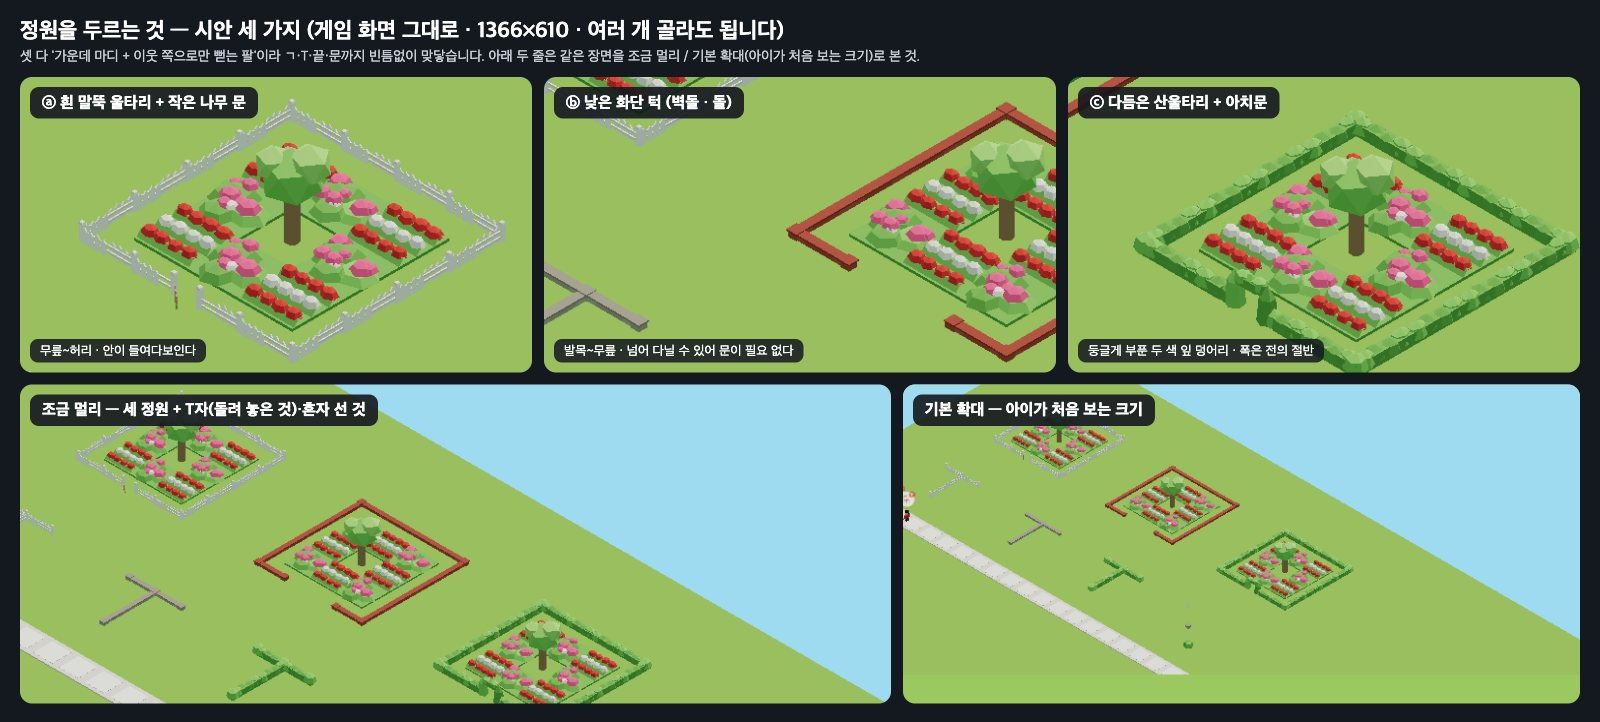
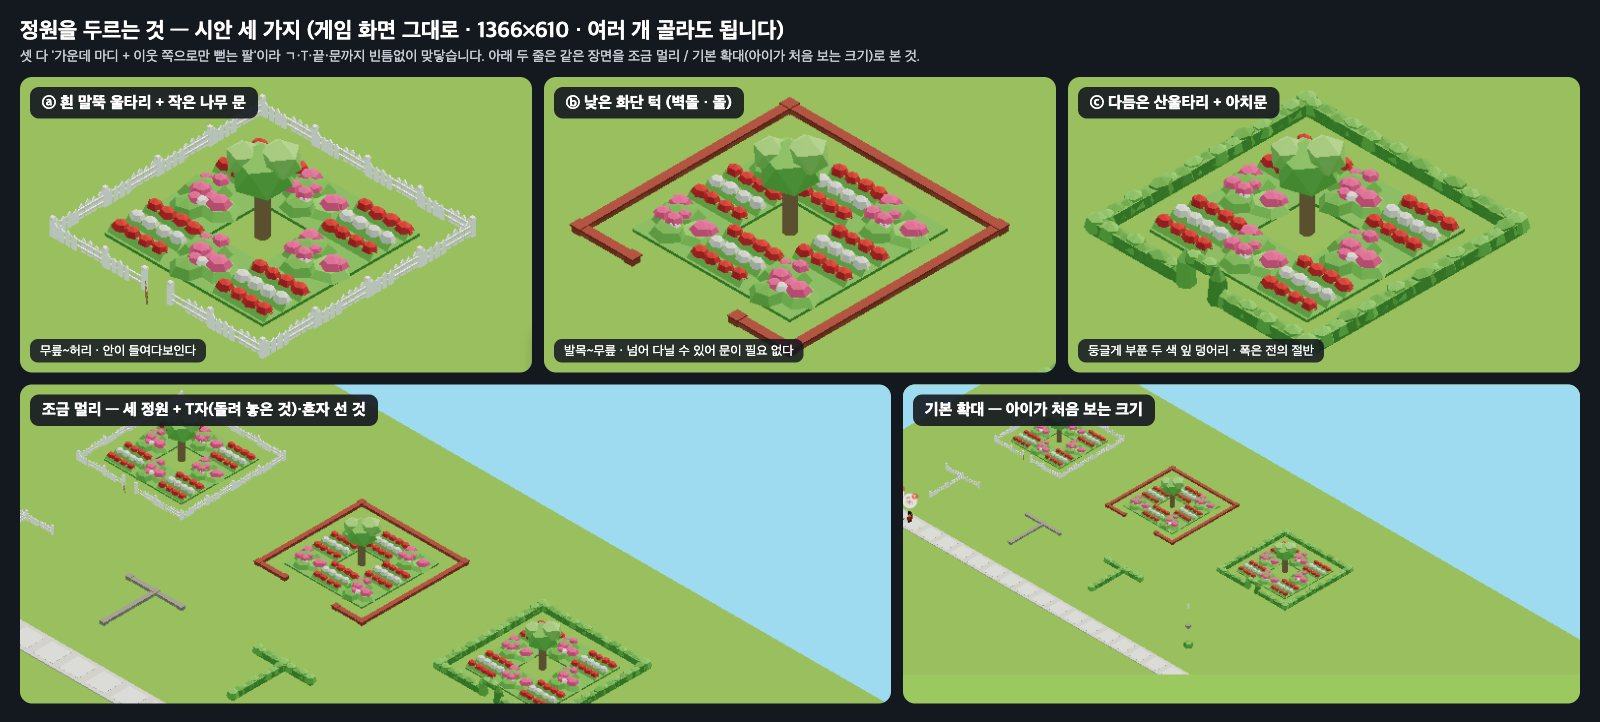
feat(village): 정원 두르기 셋 다 넣는다 — 말뚝은 더 희게, 산울타리 덩어리는 세 벌로 들쭉날쭉
선생님 09-20: "셋다넣어". 시안에 적어 둔 두 흠을 고침:
- 흰 말뚝 울타리가 그늘면에서 연회색으로 보이던 것 → 꼭짓점 색을 1 보다 크게(조명 곱 뒤 1 에서 잘림)
- 산울타리 잎 덩어리가 규칙적이던 것 → 팔 기하 세 벌(jn:hedgeArm0~2)을 칸·방향마다 바꿔 씀

diff --git a/village/index.html b/village/index.html
@@ -742,7 +742,7 @@ const JOIN_SHAPES = {
     node: [ { g:'box', c:'c2', s:[.66,.42,.66], p:[0,.21,0] }, { g:'box', c:'c3', s:[.78,.1,.78], p:[0,.47,0] } ],
     lone: [ { g:'box', c:'c2', s:[.66,.42,.66], p:[0,.21,0] }, { g:'box', c:'c3', s:[.78,.1,.78], p:[0,.47,0] } ] },
   hedge: {                                               // ⓒ 다듬은 산울타리 — 폭 0.9 · 윗면이 둥글게 부푼 잎 덩어리(짙은 잎·밝은 잎이 번갈아 겹침) · 높이 1.2(꽃보다 조금 높게)
-    arm:  [ { g:'jn:hedgeArm', c:'model', s:[1,1,1], p:[0,0,0] } ],
+    vars: 3, arm:  [ { g:'jn:hedgeArm', c:'model', s:[1,1,1], p:[0,0,0] } ],   // vars: 팔 기하가 jn:hedgeArm0~2 세 벌
     node: [ { g:'jn:hedgeNode', c:'model', s:[1,1,1], p:[0,0,0] } ], lone: [ { g:'jn:hedgeLone', c:'model', s:[1,1,1], p:[0,0,0] } ] } };
 const JOIN_GATES = {                                     // 문 — 동서로 선 모양 하나(남북이면 돌린다)
   picket: [ { g:'jn:picketGate', c:'model', s:[1,1,1], p:[0,0,0] }, { g:'box', c:P.wood, s:[1.55,.12,.07], p:[-.33,.32,.52], ry:-.7 }, { g:'box', c:P.wood, s:[1.55,.12,.07], p:[-.33,.66,.52], ry:-.7 },
@@ -761,13 +761,13 @@ function joinPartsAt(rec) {                            // 이웃(세계 기준) 
   const k = K[rec.k], x = cX(rec.root), y = cY(rec.root), fam = k.join;
   const has = (xx, yy) => { if (!inb(xx, yy)) return false; const c = cells[idx(xx, yy)]; return !!(c && K[c.k].join === fam); };
   const mask = (has(x, y - 1) ? 1 : 0) | (has(x + 1, y) ? 2 : 0) | (has(x, y + 1) ? 4 : 0) | (has(x - 1, y) ? 8 : 0), rot = rec.rot & 3;
-  const key = rec.k + ':' + mask + ':' + rot; if (_joinCache[key]) return _joinCache[key];
+  const nv = JOIN_SHAPES[fam].vars || 0, vv = nv ? (x * 7 + y * 13) % nv : 0, key = rec.k + ':' + mask + ':' + rot + ':' + vv; if (_joinCache[key]) return _joinCache[key];
   const cols = JOIN_KINDS[rec.k].cols, paint = pt => (cols && typeof pt.c === 'string' && pt.c[0] === 'c' && pt.c.length === 2) ? { ...pt, c: cols[+pt.c[1] - 1] } : pt;
   const turn = (pt, q) => { const n = ((q % 4) + 4) % 4; let px = pt.p[0], pz = pt.p[2]; for (let i = 0; i < n; i++) { const t = px; px = -pz; pz = t; } return paint({ ...pt, p:[px, pt.p[1], pz], ry: (pt.ry || 0) - n * Math.PI / 2 }); };   // 세계에서 시계 방향 90°×n (북→동→남→서)
   const S = JOIN_SHAPES[fam]; let out = [];
   if (k.gate) { const ns = (mask & 5) && !(mask & 10); out = JOIN_GATES[fam].map(pt => turn(pt, (ns ? 1 : 0) + rot)); }   // 남북 이웃만 있으면 남북으로 선다
   else if (!mask) out = S.lone.map(pt => turn(pt, rot));
-  else { const straight = mask === 5 || mask === 10; if (S.always || !straight) S.node.forEach(pt => out.push(turn(pt, rot))); [0, 1, 2, 3].forEach(d => { if (mask & (1 << d)) S.arm.forEach(pt => out.push(turn(pt, d + rot))); }); }
+  else { const straight = mask === 5 || mask === 10; if (S.always || !straight) S.node.forEach(pt => out.push(turn(pt, rot))); [0, 1, 2, 3].forEach(d => { if (mask & (1 << d)) S.arm.forEach(pt => out.push(turn(nv ? { ...pt, g: pt.g + ((vv + d) % nv) } : pt, d + rot))); }); }
   return _joinCache[key] = out; }
 /* 놓거나 치우면 이웃의 모양도 바뀐다 → 이웃 칸이 든 청크도 다시 합친다(청크가 4칸이라 경계를 자주 넘는다). 꽃밭 가장자리 등 '이웃을 보는 모양'이 같이 쓴다 */
 function joinDirtyAround(kind, x, y) { if (!K[kind] || !K[kind].join) return; [[0, -1], [1, 0], [0, 1], [-1, 0]].forEach(([dx, dy]) => { const xx = x + dx, yy = y + dy; if (inb(xx, yy) && cells[idx(xx, yy)]) dirtyChunks.add(chunkOfCell(idx(xx, yy))); }); }
@@ -1469,7 +1469,7 @@ window.__flowerBeds = () => Object.fromEntries(Object.entries(FLOWER_SETS).map((
 /* ══ [DESIGN-JOIN-1] 이어지는 것들의 기하 — 말뚝(끝이 뾰족한 살)·잎 덩어리는 상자로 안 나와서 여기서 만든다(꼭짓점 색, 팔 하나 = 기하 하나) ══ */
 (function buildJoinGeo() {
   const TAU = Math.PI * 2, lin = h => { const c = new THREE.Color(h); return [c.r, c.g, c.b]; };
-  const WHITE = lin(0xffffff), WHITE2 = lin(0xf1eee6), LEAF = lin(P.leaf);
+  const over = (h, m) => lin(h).map(v => v * m), WHITE = over(0xffffff, 1.45), WHITE2 = over(0xf6f2e8, 1.3), LEAF = lin(P.leaf);   // 흰색은 1 보다 크게 — 그늘면이 회색으로 안 떨어지게(조명 곱 뒤에 1 에서 잘린다)
   function mesh(build) {
     const pos = [], nrm = [], idx = [], col = [], kind = [];
     function shape(verts, faces, c, k) {
@@ -1499,7 +1499,10 @@ window.__flowerBeds = () => Object.fromEntries(Object.entries(FLOWER_SETS).map((
   BASE['jn:picketGate'] = mesh(g => { [-.98, .98].forEach(x => { g.box(x, .68, 0, .28, 1.36, .28, WHITE); g.dome(x, 0, 1.36, .24, .24, .22, 4, WHITE2, 0, TAU / 8); });            // 문기둥 둘(조금 높다)
     [-1, 1].forEach(sg => { g.box(sg * 1.54, .32, 0, .92, .13, .09, WHITE2); g.box(sg * 1.54, .70, 0, .92, .13, .09, WHITE2); }); });                                             // 양옆 가로대 토막 — 이웃 울타리와 이어진다
   /* ⓒ 다듬은 산울타리 — 짙은 잎(7)·보통 잎(2) 덩어리가 번갈아 겹친다 */
-  BASE['jn:hedgeArm']   = mesh(g => { g.box(0, .42, -H / 2, .78, .84, H, LEAF, 7); [[-.55, .07, .52, 1.26, 2, .78], [-1.5, -.08, .56, 1.12, 7, .70]].forEach(([z, x, r, h, k, rz], i) => g.dome(x, z, .3, r, rz, h - .3, 6, LEAF, k, i * .7)); });
+  [ [[-.55, .07, .52, 1.26, 2, .78], [-1.5, -.08, .56, 1.12, 7, .70]],
+    [[-.42, -.06, .50, 1.10, 7, .62], [-1.12, .09, .60, 1.34, 2, .74], [-1.74, -.04, .48, 1.08, 7, .50]],
+    [[-.80, .05, .62, 1.30, 7, .95], [-1.62, -.07, .50, 1.14, 2, .60]] ].forEach((lumps, vi) => {   // 팔 세 벌 — 칸·방향마다 다른 벌을 써서 덩어리가 들쭉날쭉
+    BASE['jn:hedgeArm' + vi] = mesh(g => { g.box(0, .42, -H / 2, .78, .84, H, LEAF, 7); lumps.forEach(([z, x, r, h, k, rz], i) => g.dome(x, z, .3, r, rz, h - .3, 6, LEAF, k, i * .7 + vi)); }); });
   BASE['jn:hedgeNode']  = mesh(g => { g.box(0, .42, 0, .78, .84, .78, LEAF, 7); g.dome(0, 0, .3, .72, .72, 1.06, 6, LEAF, 2, .3); });
   BASE['jn:hedgeLone']  = mesh(g => { g.dome(0, 0, .05, .95, .9, 1.2, 6, LEAF, 7, .2); g.dome(.35, .3, .3, .6, .6, 1.0, 6, LEAF, 2, .9); });
   BASE['jn:hedgeGate']  = mesh(g => { [-1.22, 1.22].forEach((x, i) => { g.dome(x, 0, .05, .6, .6, 2.35, 6, LEAF, i ? 7 : 2, .4); g.box(x * 1.36, .34, 0, .7, .68, .62, LEAF, 7); g.dome(x * 1.42, 0, .12, .46, .5, 1.0, 6, LEAF, i ? 2 : 7, .2); });   // 기둥 둘 + 양옆 토막
